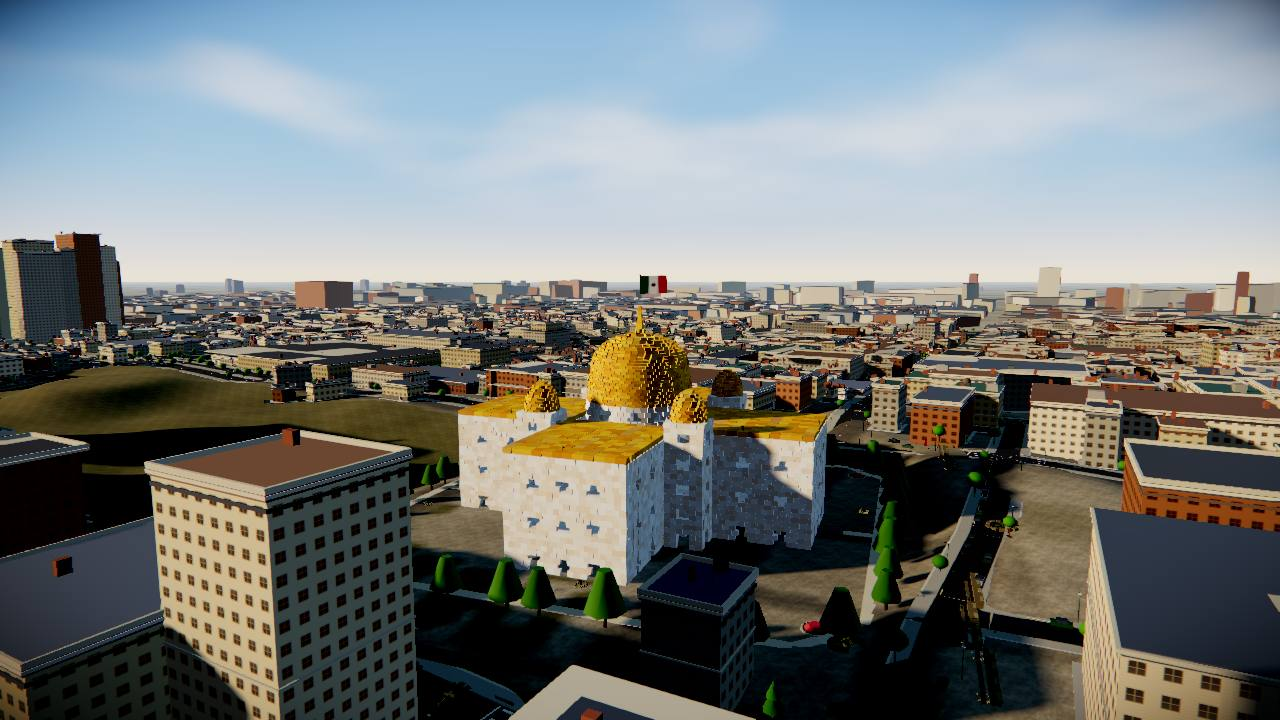
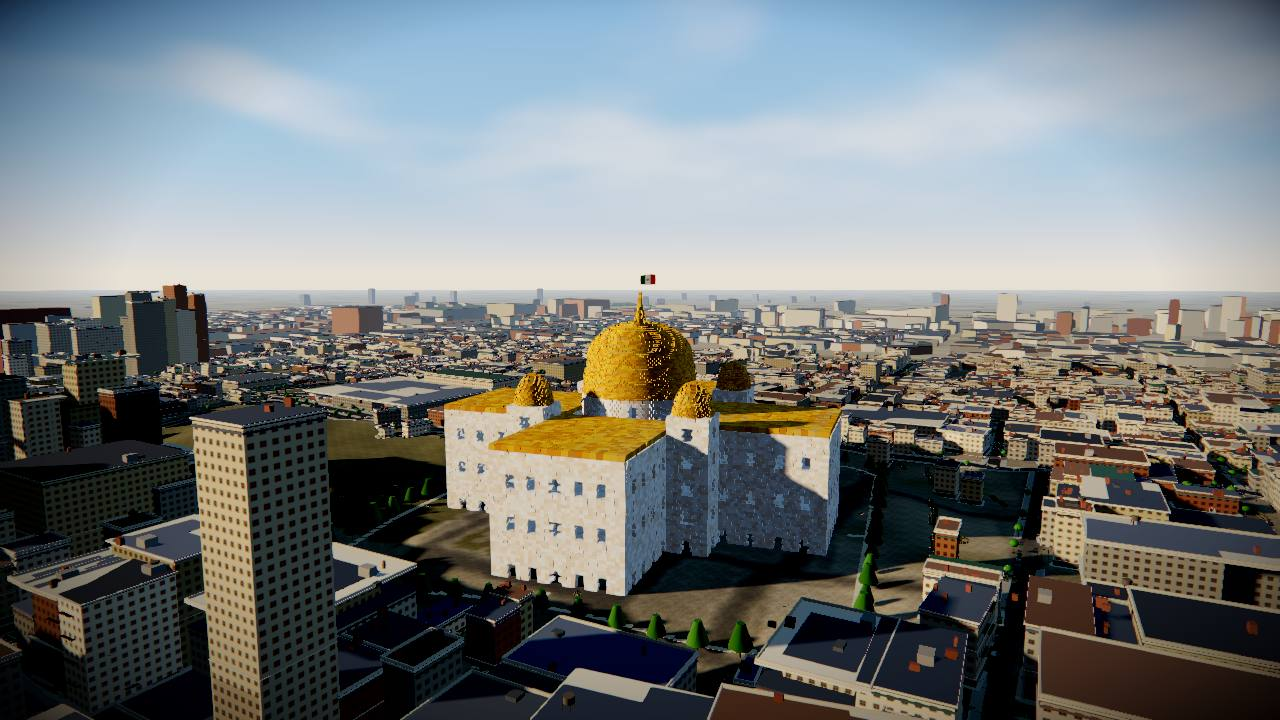
Kronborg held to its headland; the last recon photographs of the rescaled catalogue
At 1.89 times Kronborg's bastions stood out past the promontory over the
Sound. At 1.35 it is 111 m tall and 223 m across and fits the point it
stands on; sound at low and ultra.

Claude-Session: https://claude.ai/code/session_01Vm4UdrLmhsEiZM8Dk4Wi6F

diff --git a/src/game/atlas_specs.js b/src/game/atlas_specs.js
@@ -699,7 +699,7 @@ export const GAME_SCALE = {
   warsaw: 1.25,
   bran: 1.30,
   bucharest: 2.50,
-  kronborg: 1.89,
+  kronborg: 1.35,        // held to its headland: at 1.89 the bastions stood out over the Sound
   stockholm: 2.60,
   hallgrimskirkja: 1.16,
   trakai: 1.62,
